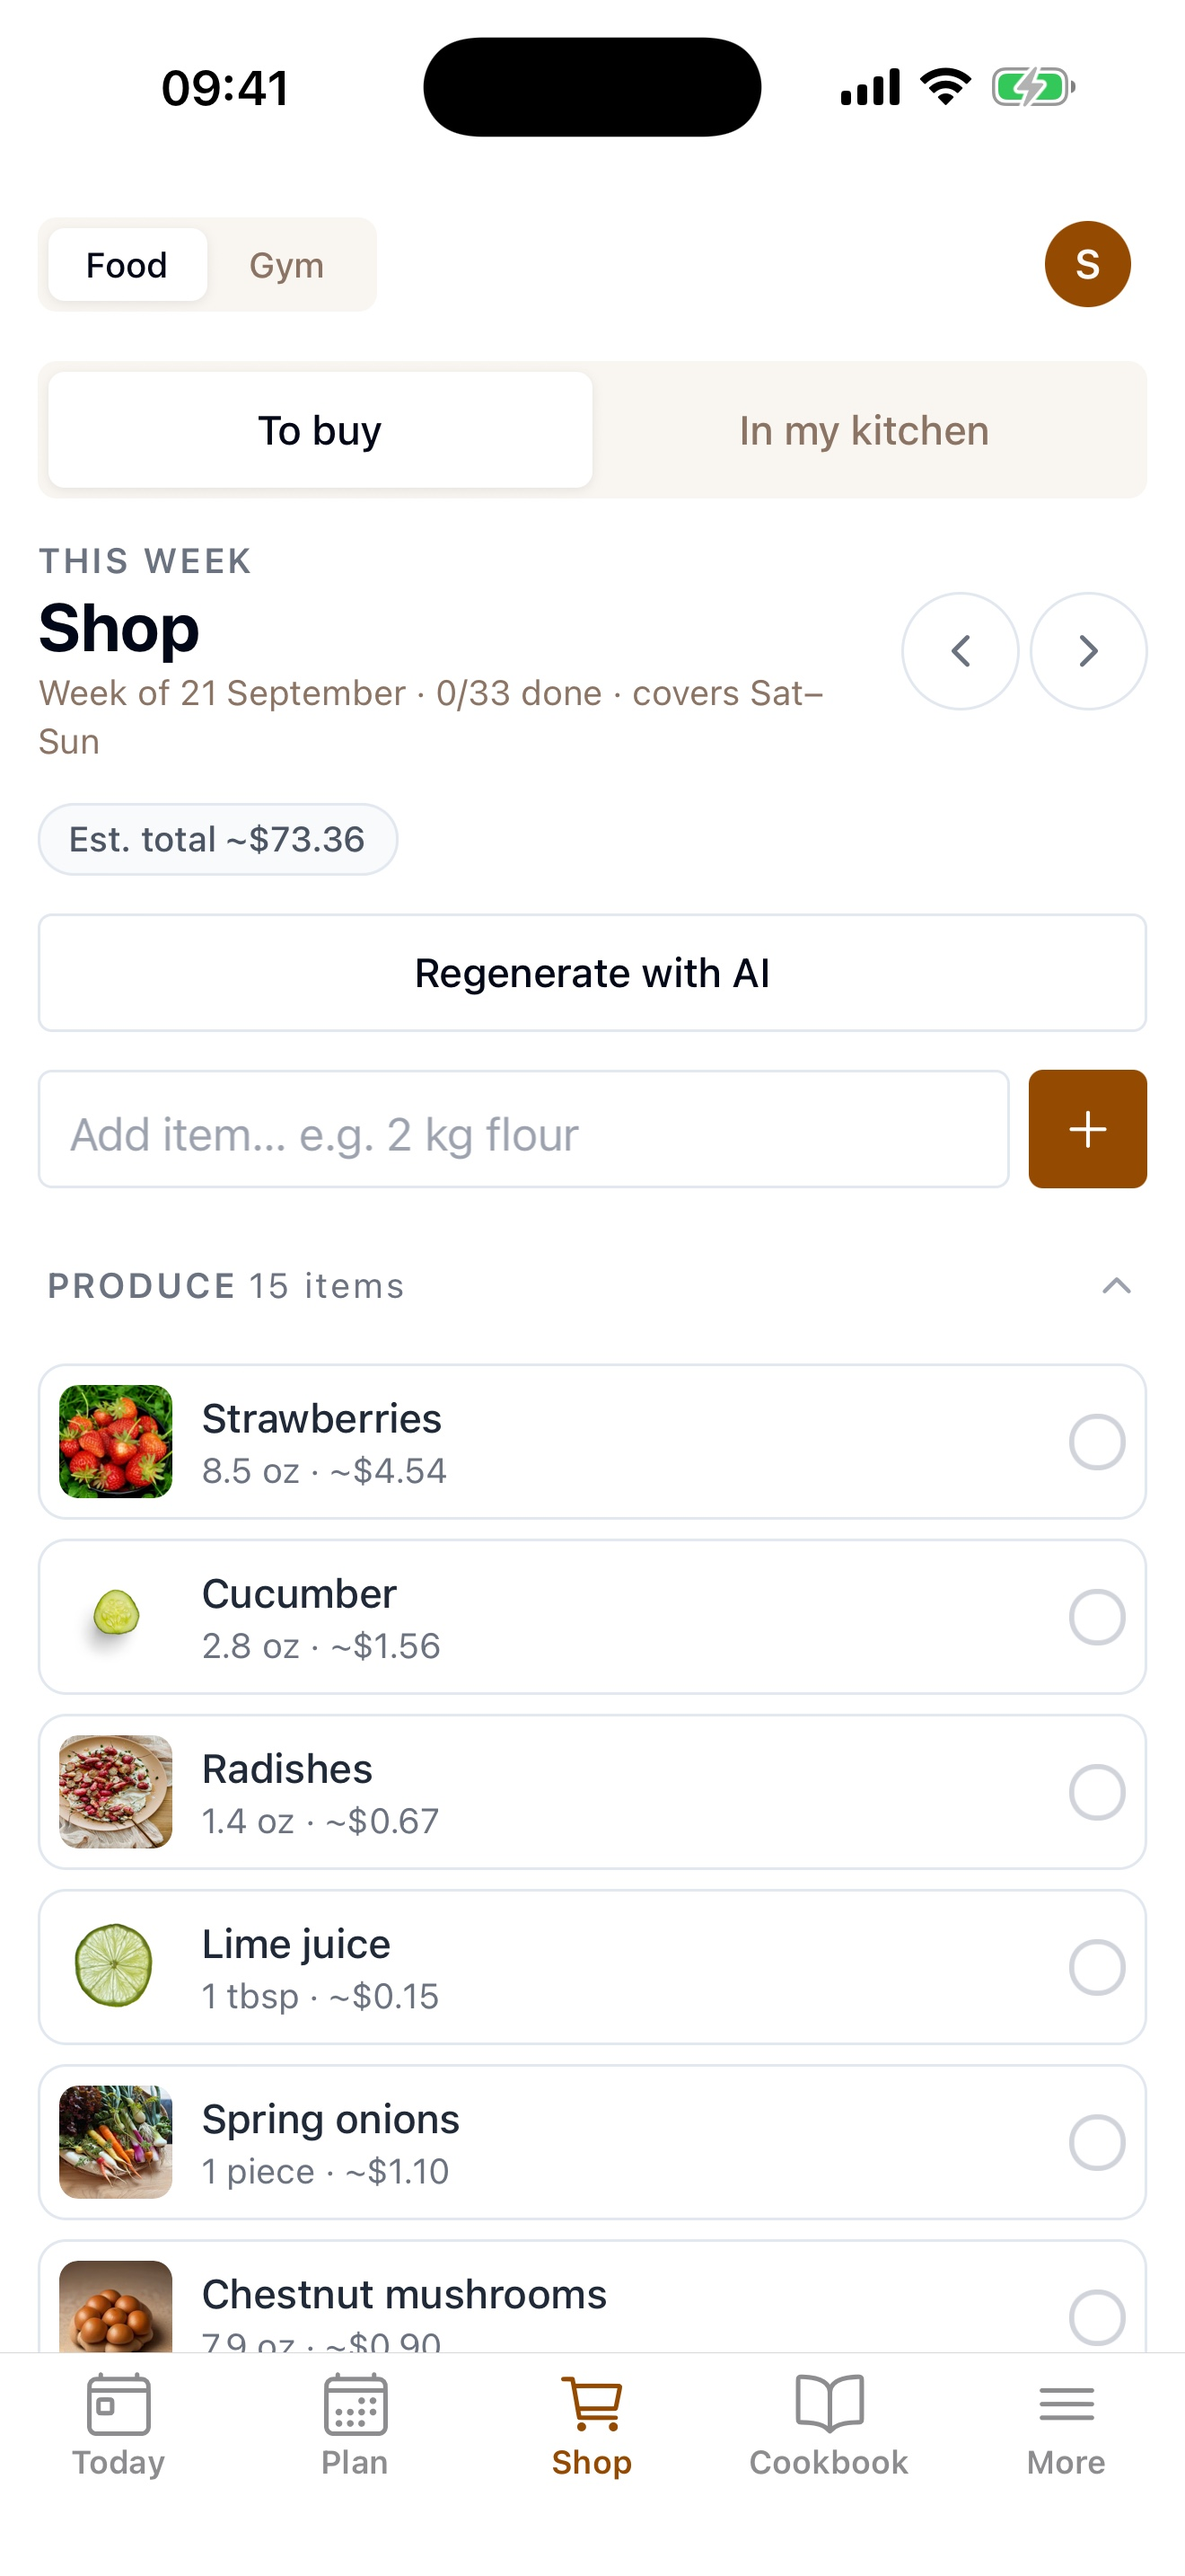
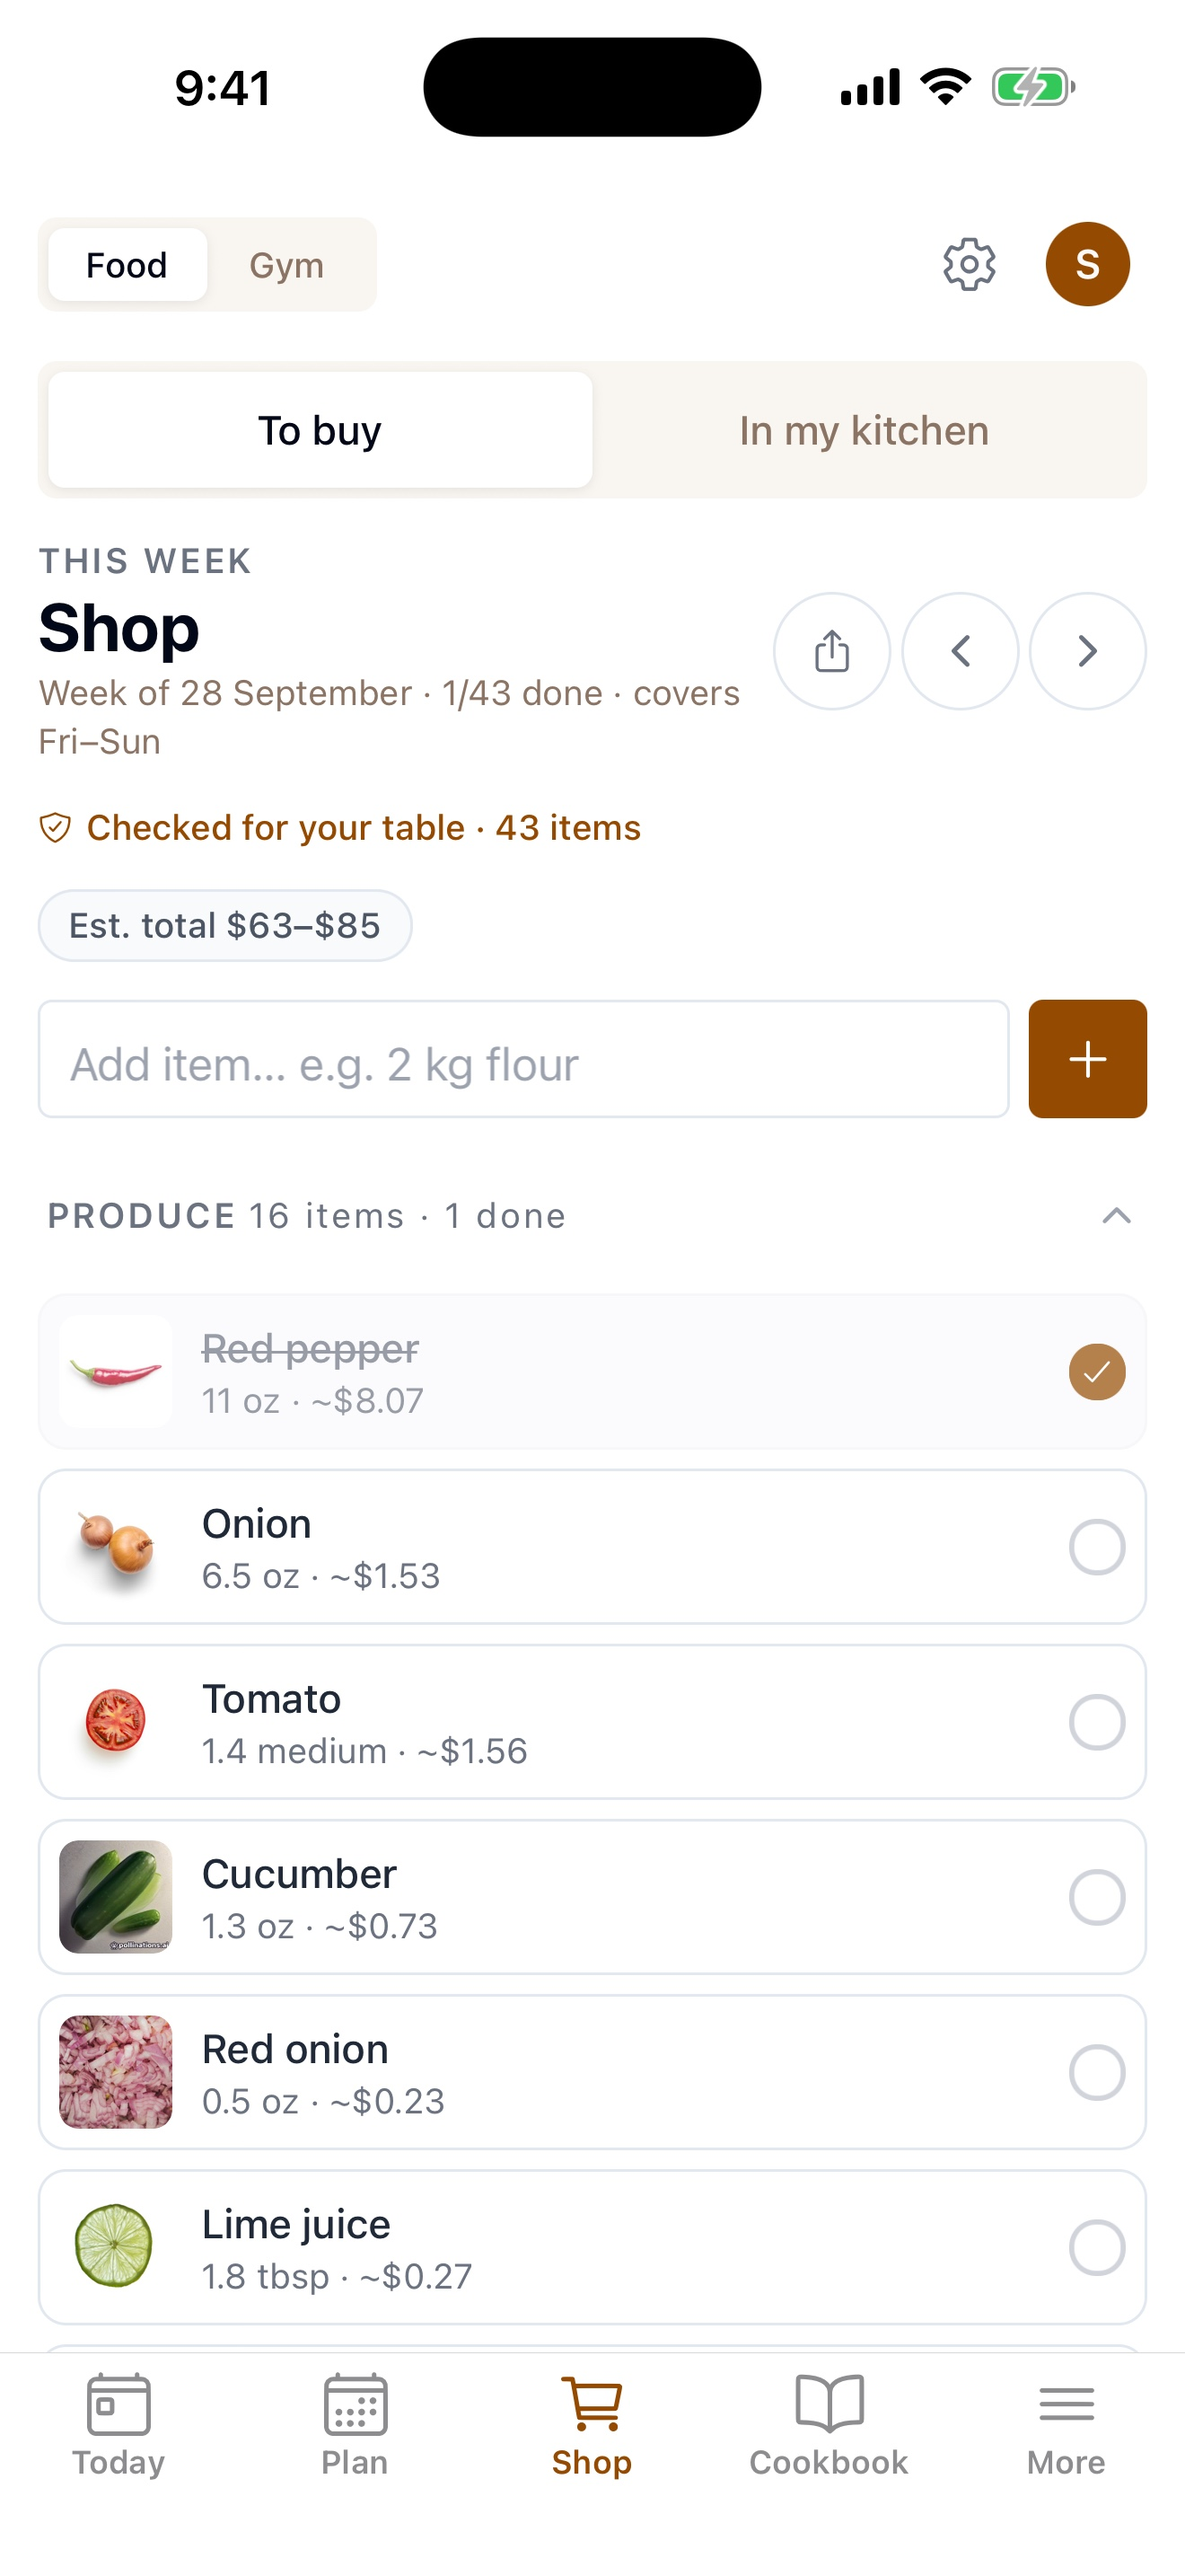
docs(release): retake the App Store screenshots from the fix build (R-06)
Seven 1320×2868 alpha-free shots of the current UI on a Free US demo account
(routine, plan, shop, today, workout, summary, cook mode); the 26 Sep set from
before waves 1–3 is removed.

diff --git a/docs/app-store/ios/screenshots/README.md b/docs/app-store/ios/screenshots/README.md
@@ -6,61 +6,26 @@ App Store Connect scales it down for smaller iPhones. No iPad set is needed
 **iPhone 17 Pro Max** simulator, which renders exactly 1320 × 2868.
 
 Upload order = the order below. The first three appear in search results, so they carry the pitch.
-All eight are ready in `iphone-6.9/` as alpha-free JPEGs (App Store Connect rejects images with an alpha channel).
+All seven are ready in `iphone-6.9/` as alpha-free JPEGs (App Store Connect rejects images with an alpha channel).
 
-| #   | File                 | Screen                                              | Caption idea (for framed versions later) |
-| --- | -------------------- | --------------------------------------------------- | ---------------------------------------- |
-| 1   | `01-plan.jpg`        | Plan tab: today's three meals, week strip, cost     | A week of meals, planned in seconds      |
-| 2   | `02-recipe.jpg`      | Recipe detail: photo, tags, macros, ingredients     | Every recipe fits your goals             |
-| 3   | `03-shopping.jpg`    | Shopping list: produce with prices, estimated total | One shopping list for the whole week     |
-| 4   | `04-home.jpg`        | Today: calorie ring, macros, Snap to log            | See today at a glance                    |
-| 5   | `05-gym-today.jpg`   | Gym mode Today: week ring, next workout             | Switch to Gym with one tap               |
-| 6   | `06-gym-workout.jpg` | Active workout: prefilled sets, rest timer          | Log a set in one tap                     |
-| 7   | `07-gym-summary.jpg` | Workout done: "Next time" progression suggestion    | Know what to lift next time, and why     |
-| 8   | `08-cook.jpg`        | Cook mode step with timer                           | Cook one step at a time                  |
+| #   | File                 | Screen                                                                 | Caption idea                     |
+| --- | -------------------- | ---------------------------------------------------------------------- | -------------------------------- |
+| 1   | `01-gym-routine.jpg` | Gym Routine: Full Body 3×, every exercise with its "Next" target       | Know what to lift next           |
+| 2   | `02-plan.jpg`        | Plan: "Checked for Peanuts", a "Your pick" pin, training day, cost     | A week of meals, checked for you |
+| 3   | `03-shopping.jpg`    | Shop: "Checked for your table", price range, Share, one item ticked    | One list, sent in a tap          |
+| 4   | `04-today.jpg`       | Today card stack: Tomorrow, things to buy, Later today, Your week      | See today at a glance            |
+| 5   | `05-gym-workout.jpg` | Active workout: prefilled sets, PR, reps-in-reserve prompt, rest timer | Log a set in one tap             |
+| 6   | `06-gym-summary.jpg` | Workout done: PR and "Next time" with its reason                       | Know what to lift next time      |
+| 7   | `07-cook.jpg`        | Cook mode step with a running timer                                    | Cook it step by step             |
 
-Captured 26 Sep 2026 (before waves 1–3) from branch `feat/app-store-readiness` (Release build, iPhone 17 Pro Max
-simulator, iOS 26.3) with a local demo account ("Sam", US region → dollars and imperial units,
-peanut allergy, curated plan). The data is made up.
+**Retaken 2 Oct 2026** (App Review simulation R-06) from the `fix/app-review-2026-10` Release build on the
+iPhone 17 Pro Max simulator (iOS 26.5, en_US region → dollars and imperial units, status bar 9:41) with a
+local Free demo account ("Sam", peanut allergy, curated week, Full Body 3×). The data is made up. Seven
+shots (Apple needs 3–10). Deliberately left out, per the rules below: the Household editor (its page
+carries a Premium upsell), Profile › Privacy & data (its coach-review note says "(Premium)"), and the top
+of Today (the Free "Snap to log" example card). The previous set (26 Sep, before waves 1–3) was removed.
 
-## Wave-4 review: which shots are outdated (30 Sep 2026)
-
-The eight shots were captured on 26 Sep 2026, before waves 1–3. Compared with the screens on
-`master` (viewed 01, 04 and 05; the others judged from the code), **seven need retaking and one
-is probably still fine**. Shots are taken by the owner or orchestrator from the integrated build
-(Release, iPhone 17 Pro Max simulator, 9:41 status bar, made-up demo account). Show only Free
-flows: no Premium sheet, no "See what Premium adds" card, no price or plan text (App Review
-3.1.1).
-
-| #   | File                 | Verdict                        | What changed since capture                                                                                                                                                                                                                                 |
-| --- | -------------------- | ------------------------------ | ---------------------------------------------------------------------------------------------------------------------------------------------------------------------------------------------------------------------------------------------------------- |
-| 1   | `01-plan.jpg`        | **Retake**                     | Plan now has the "Checked for" safety line and chip, the how-you-cook summary and settings entry, a visible Regenerate button, "Your pick" pins, undoable Replace, and the week cost is a range (the shot shows one exact `$73.36`). Reads as old.         |
-| 2   | `02-recipe.jpg`      | **Retake**                     | Recipe detail now shows safety notes for the table, servings-following nutrition and kitchen fractions ("1¾"), and the custom-ingredient flow changed.                                                                                                     |
-| 3   | `03-shopping.jpg`    | **Retake**                     | Shop has the Share button, price ranges instead of exact totals and the safety notes; the Pantry savings chip is gone.                                                                                                                                     |
-| 4   | `04-home.jpg`        | **Retake, and change content** | Today is now a card stack (Tonight, Tomorrow, Shop-due) and the ring label reads "Your target"/"Suggested". The shot's **Snap to log** card is a **Premium** feature (on a Free account it shows an example with "See what Premium adds"): do not show it. |
-| 5   | `05-gym-today.jpg`   | **Retake**                     | Gym Today gained the richer Resume card, a Recent list, `Time today: 20 30 45 Full` chips, "How this works", the Still-time-this-week card and the Skip Undo snackbar.                                                                                     |
-| 6   | `06-gym-workout.jpg` | **Retake**                     | The set row is regrouped (filled steppers, round tick, remove any set with Undo), exercise images use the 3:2 surface with placeholder, and the bottom actions are Finish, Save for later, Discard.                                                        |
-| 7   | `07-gym-summary.jpg` | **Check, probably retake**     | The summary is close to the old one but gained the target-change notice path and exercise images; retake with the others so the set is consistent.                                                                                                         |
-| 8   | `08-cook.jpg`        | Probably fine                  | Cook mode kept its layout (timer, large step text); only the finish screen and ingredient fractions changed. Keep unless a diff of the retaken set looks off.                                                                                              |
-
-### Shot list to retake from the integrated build
-
-Upload order = the order below (the first three show in search). Suggested captions are 6 words or fewer.
-
-| #   | Screen to capture                                                                                      | Caption idea                     | Free-tier check                                                      |
-| --- | ------------------------------------------------------------------------------------------------------ | -------------------------------- | -------------------------------------------------------------------- |
-| 1   | Gym Today with the `Time today` chips and a routine with "Next up" targets                             | Know what to lift next           | Gym is Free                                                          |
-| 2   | Plan tab: a curated week with the "Checked for" line, one "Your pick" pin and the how-you-cook summary | A week of meals, checked for you | Curated plan, Free. No training-fit switch                           |
-| 3   | Shop tab: aisles, price range, Share button                                                            | One list, sent in a tap          | Free                                                                 |
-| 4   | Household editor with one member's allergy and the table summary (no scaling sheet)                    | Checked for everyone's allergies | Adding members is Free; do not show portion scaling                  |
-| 5   | Active workout: regrouped set row, rest timer                                                          | Log a set in one tap             | Free                                                                 |
-| 6   | Workout summary with "Next time" and its reason                                                        | Know what to lift next time      | Free                                                                 |
-| 7   | Cook mode step with a timer                                                                            | Cook it step by step             | Free                                                                 |
-| 8   | Today card stack (Tonight, Tomorrow, Shop-due) with the calorie ring, **no** Snap card                 | See today at a glance            | Free. Use a Free demo account, not the reviewer's Premium account    |
-| 9   | Optional: Profile › Privacy & data (Health information, AI & your data, Usage analytics)               | Your data stays yours            | Free; shows the consent controls. Do not show the plan card above it |
-
-Do not include screens that show the Premium sheet, "Your plan: Free", a Snap example, the AI chef
-chat or the Cheferize import.
+Before uploading, check the shots against the build you submit; retake any screen that changed since.
 
 Rules we follow (Guideline 2.3.3 / 2.3.7):
 
@@ -69,6 +34,8 @@ Rules we follow (Guideline 2.3.3 / 2.3.7):
 - Status bar is set to 9:41, full battery and full signal via `xcrun simctl status_bar … override`.
 - Nothing debug-only on screen (no dev-client floating button, no "Chefer Dev" labels, no More-tab
   version footer).
+- Free-tier screens only: no Premium sheet or upsell, no "Your plan" text, no Snap example, no AI chef
+  chat, no recipe import (App Review 3.1.1 forbids plan wording in iOS screenshots).
 
 ## Re-capturing
 

diff --git a/docs/app-store/ios/metadata.md b/docs/app-store/ios/metadata.md
@@ -128,10 +128,9 @@ the lines that are in the build being submitted.
 
 ### Screenshots
 
-See [screenshots/README.md](./screenshots/README.md). The **iPhone 6.9" set** (8 images, 1320 × 2868 px)
-is in `screenshots/iphone-6.9/`, captured before waves 1–3; that README lists which ones are
-outdated and the shot list to retake from the integrated build. No iPad set is needed because
-`supportsTablet: false`.
+See [screenshots/README.md](./screenshots/README.md). The **iPhone 6.9" set** (7 images, 1320 × 2868 px)
+is in `screenshots/iphone-6.9/`, retaken on 2 Oct 2026 from the App Review fix build (Free account,
+no Premium wording). No iPad set is needed because `supportsTablet: false`.
 
 ### App icon
 

diff --git a/docs/app-store/ios/README.md b/docs/app-store/ios/README.md
@@ -41,7 +41,7 @@ to "live on the App Store", in order. Companion files:
 
 - [ ] App record created (§4)
 - [ ] Build uploaded via EAS and tested through TestFlight (§5, §6)
-- [x] Screenshots captured: `screenshots/iphone-6.9/` (8 × 1320 × 2868 JPEG)
+- [x] Screenshots captured: `screenshots/iphone-6.9/` (7 × 1320 × 2868 JPEG, retaken 2 Oct 2026)
 - [ ] Listing text, screenshots, privacy, age rating, review info filled in (§7)
 - [ ] Submitted (§8)
 
